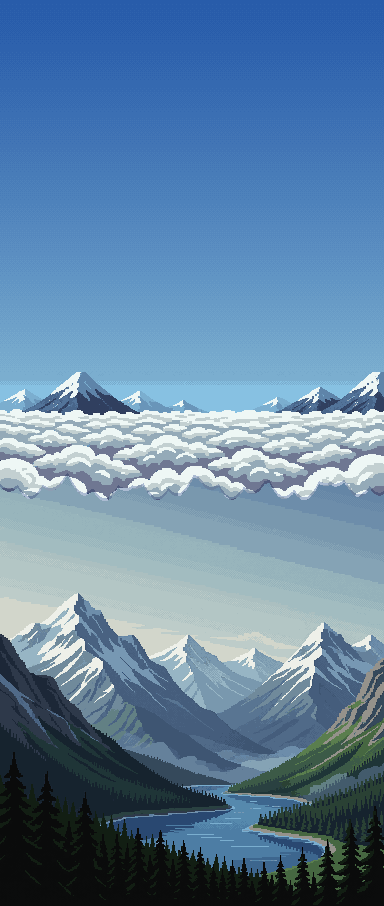
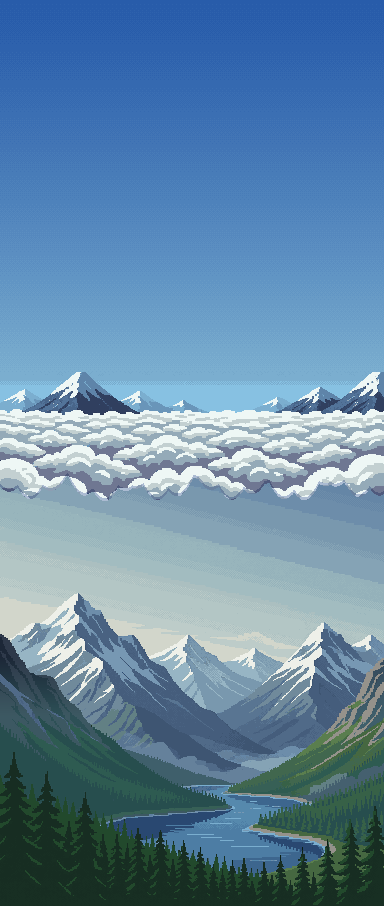
Wall rest, tumbling falls, sitting to wait on a ledge; icy rock and a brighter valley
- Resting on the wall: the climber shuffles to a stance, drops a hand and shakes it out
- Falls flail on a longer tumbling loop
- A climber alone on a camp ledge sits down to wait and stands as the partner arrives
- The top of the mountain has its own iced-over rock painting
- The valley backdrop's forest is lifted out of near-black
- Cache versions raised (code=2, art=11)

Claude-Session: https://claude.ai/code/session_018rpfmEX5HfmNYP77j3hC6K

Changed region(s): [[0.0, 0.7417, 1.0, 1.0]]

diff --git a/js/scene.js b/js/scene.js
@@ -170,7 +170,10 @@ const ART={},CLOUD_N=3,TENT_UP=9;
         if(L(k)>95&&L(k-W*4)<62){const n=2+((x*7+y*3)%3);for(let j=0;j<n;j++){const q=k+j*W*4;if(L(q)<62)break;
           const c=j<n-1?[242,245,247]:[191,210,230];d[q]=c[0];d[q+1]=c[1];d[q+2]=c[2];}}}}
     for(const p of [lo,mid,hi]){let r=0,g=0,b=0;const N=p.w*p.h;for(let k=0;k<N*4;k+=4){r+=p.d[k];g+=p.d[k+1];b+=p.d[k+2];}p.mean=[r/N,g/N,b/N];}
-    ART.zones=[lo,mid,hi];ART.rockLo=lo;FX.chunks.clear();});
+    const mean=p=>{let r=0,g=0,b=0;const N=p.w*p.h;for(let k=0;k<N*4;k+=4){r+=p.d[k];g+=p.d[k+1];b+=p.d[k+2];}p.mean=[r/N,g/N,b/N];};
+    ART.zones=[lo,mid,hi];ART.rockLo=lo;FX.chunks.clear();
+    // (the top of the mountain has its own painting of the same slabs, iced over; the wintry copy stands in until it loads)
+    load(asset("assets/rock-high.png"),im2=>{const ice=pixels(im2);mean(ice);ART.zones=[lo,mid,ice];FX.chunks.clear();});});
   // the walkable surface of a platform image: the first opaque row down its middle
   const surface=p=>{const x=p.w>>1;for(let y=0;y<p.h;y++)if(p.d[(y*p.w+x)*4+3]>40)return y;return 0;};
   // camp ledges: Camp I as drawn; Camp II with its grass and moss turned to snow and its rock cooled to blue-grey
@@ -377,6 +380,10 @@ const TIE=[68,66];          // the front of the belt in the climbing frames (whe
 const CLIMB_STEP=7,CLIMB_X1=93; // (CLIMB_X1: the frames' rightmost pixel, a hand or a toe, which goes into the rock)
 const climbQ=y=>Math.round(y/CLIMB_STEP);
 const REST_N=9,REST_MS=1700; // the resting and dangling clips: nine frames each, the rest played once through
+const REST_STEP=70;  // (the rest starts from the cycle's first frame: the climber shuffles to it, this long a frame)
+const TUMBLE_N=8;    // a long fall: flailing on a loop, after the dangle's frames in the fall clip
+const SIT_N=9,SIT_DOWN=.9,SIT_UP=.55,SIT_AFTER=1.4; // sitting down to wait on a ledge (after the standing clips)
+const restSteps=y=>{const n=CLIP_N.climb,f=((-climbQ(y))%n+n)%n;return f<=n/2?f:n-f;};
 // the pull-up onto a ledge: nine frames on a tall canvas, the first the hanging climb frame, the last standing up
 // on top. `hang` is where the climb clip's frame sits in that canvas and `stand` where the idle clip's does.
 const MANTLE_N=9,MANTLE={lumberjack:{hang:[0,107],stand:[26,18]},woman:{hang:[0,105],stand:[25,22]}};
@@ -398,9 +405,10 @@ function loadClimber(L){const who=CLIMBER_ART[L.name],A=L.art={clips:{},ready:0}
   // the extra clips ride at the end of the clips whose placement they share: both rests after the climb's frames
   // (hand up as in frame 3, then as in frame 7), the dangle after the fall's
   const extra=(dir,n,done)=>{const fr=[];let k=n;for(let i=0;i<n;i++){const im=new Image();im.onload=()=>{if(!--k)done(fr);};im.src=asset(`assets/climbers/${who}/${dir}/${i}.png`);fr.push(im);}};
-  extra("dangle",REST_N,a=>{A.clips.fall.push(...a);A.dangle=1;});
+  extra("dangle",REST_N,a=>extra("tumble",TUMBLE_N,b=>{A.clips.fall.push(...a,...b);A.dangle=1;A.tumble=1;}));
+  extra("rest",REST_N,a=>{A.clips.climb.push(...a);A.rest=1;});
   extra("mantle",MANTLE_N,a=>{A.mantle=a;A.mantleAt=MANTLE[who];});
-  extra("look",STAND_N,a=>extra("drink",STAND_N,b=>extra("land",LAND_N,c=>{A.clips.idle.push(...a,...b,...c);A.stand=1;})));}
+  extra("look",STAND_N,a=>extra("drink",STAND_N,b=>extra("land",LAND_N,c=>extra("sit",SIT_N,d=>{A.clips.idle.push(...a,...b,...c,...d);A.stand=1;A.sit=1;}))));}
 loadClimber(LOOK.me);loadClimber(LOOK.mate);
 // all of the climb's pictures are in (until then the scene draws simple stand-ins; the loading screen waits for this)
 const artReady=()=>!!(ART.valley&&ART.rockLo&&ART.ledge&&ART.tent&&ART.trees[0]&&ART.trees[1]&&ART.ground&&LOOK.me.art.ready&&LOOK.mate.art.ready);
@@ -589,12 +597,18 @@ class Rig{
     if(this.mode==="stand"){if(this.cheer>0){this.cheer-=dt;if(!(this.clip&&this.clip.joy)){this.play([["cheer1",170],["cheer2",170]],0);this.clip.joy=1;}if(this.cheer<=0)this.standLoop();}
       else if(this.clip&&this.clip.joy)this.standLoop();}
     if(!this.mv&&(this.mode==="climb"||this.mode==="stand")&&this.cheer<=0&&FX.time>this.idleAt&&!RM.matches){this.calm();
-      if(this.mode==="climb")this.play(this.L.art&&this.L.art.rest?[["rest",REST_MS],["hang",1e9]]:Math.random()<.5?[["chalk",900],["hang",1e9]]:[["shake1",110],["shake2",110],["shake1",110],["shake2",110],["shake1",110],["shake2",110],["hang",1e9]]);
+      if(this.mode==="climb")this.play(this.L.art&&this.L.art.rest?[["rest",REST_MS+2*restSteps(this.N.y)*REST_STEP],["hang",1e9]]:Math.random()<.5?[["chalk",900],["hang",1e9]]:[["shake1",110],["shake2",110],["shake1",110],["shake2",110],["shake1",110],["shake2",110],["hang",1e9]]);
       // (on their feet with nothing to do, they look up the wall or take a drink; while belaying they just glance up)
+      else if(this.sit>0);
       else if(this.pose==="stand"||this.pose==="stand2"){const o=FX.A&&(this===FX.A.me?FX.A.mate:FX.A.me),busy=!this.L.art||!this.L.art.stand||(o&&(o.mode==="climb"||o.mode==="fall"));
         this.play(busy?[["look",1600],["stand",650],["stand2",650]]:[[Math.random()<.5?"slook":"sdrink",STAND_MS],["stand",650],["stand2",650]],1);}}
     // on the wall they face it; on a ledge they face their partner
     const other=FX.A&&(this===FX.A.me?FX.A.mate:FX.A.me);
+    // up on a ledge with the partner still well down the wall: after a moment they sit down to wait, and get to
+    // their feet again as the partner comes up to the ledge
+    {const want=this.mode==="stand"&&!this.mv&&this.cheer<=0&&!(this.dizzy>0)&&this.L.art&&this.L.art.sit&&!RM.matches&&other&&other!==this&&other.mode==="climb"&&other.N.y>this.N.y+96;
+      this.sitHold=want?(this.sitHold||0)+dt:0;
+      this.sit=this.mode!=="stand"?0:clamp((this.sit||0)+(this.sitHold>SIT_AFTER?dt/SIT_DOWN:-dt/SIT_UP),0,1);}
     // a belayer on the wall leans back out on the rope while the leader climbs past, so the two never overlap
     const lean=other&&this===FX.A.mate&&this.mode==="climb"&&other.mode==="climb"&&Math.abs(other.N.y-this.N.y)<74?-38:0;
     this.passX=(this.passX||0)+(lean-(this.passX||0))*(1-Math.exp(-dt*5));
@@ -611,12 +625,21 @@ class Rig{
   artFrame(t){
     // jolted on the wall (the rope jerked): snapped back off the rock, arms out, for a moment before grabbing on again
     // (while a move off a ledge or a fall waits to start, the body keeps the frame it had, so it never dips first)
-    if(this.mode==="climb"){const n=CLIP_N.climb,q=climbQ(this.N.y);return ["climb",((-q)%n+n)%n];}
+    if(this.mode==="climb"){const n=CLIP_N.climb,q=climbQ(this.N.y),f=((-q)%n+n)%n;
+      // a rest: shuffle to the cycle's first stance, drop a hand and shake it out, reach back up, shuffle back
+      if(this.pose==="rest"&&this.clip&&this.L.art.rest&&!this.mv){const s=f<=n/2?f:n-f,dir=f<=n/2?-1:1,T=this.clip.t,pre=s*REST_STEP;
+        if(T<pre)return ["climb",((f+dir*(Math.floor(T/REST_STEP)+1))%n+n)%n];
+        if(T<pre+REST_MS)return ["climb",n+Math.min(REST_N-1,Math.floor((T-pre)/REST_MS*REST_N))];
+        return ["climb",((-dir*Math.min(s,Math.floor((T-pre-REST_MS)/REST_STEP)+1))%n+n)%n];}
+      return ["climb",f];}
     // a fall: tipping back off the wall (two frames), then flailing on a loop; once the rope has caught them, they
     // hang back in the harness
     if(this.mode==="fall"){const F=this.fall,ft=FX.time-(F?F.t0:0);
       if(F&&F.caught)return this.L.art.dangle?["fall",CLIP_N.fall+Math.floor((FX.time-(F.tc||0))*7)%REST_N]:HANG_ART;
-      return ["fall",ft<.1?1:ft<.2?2:3+Math.floor((ft-.2)*11)%3];}
+      return ["fall",ft<.1?1:ft<.2?2:this.L.art.tumble?CLIP_N.fall+REST_N+Math.floor((ft-.2)*10)%TUMBLE_N:3+Math.floor((ft-.2)*11)%3];}
+    // sitting down to wait, seated (shifting a little now and then), or getting back up
+    if(this.mode==="stand"&&this.sit>0&&this.L.art.sit){const b=CLIP_N.idle+2*STAND_N+LAND_N;
+      return ["idle",b+(this.sit>=1?(Math.floor(t*.9+this.ph)%5===0?SIT_N-2:SIT_N-1):Math.floor(this.sit*(SIT_N-1)))];}
     // on the ground or a ledge with the partner climbing above: braced, paying out the rope
     if(this.mode==="stand"&&(this.pose==="stand"||this.pose==="stand2"||this.pose==="look")&&this.cheer<=0){const o=FX.A&&(this===FX.A.me?FX.A.mate:FX.A.me);
       if(o&&(o.mode==="climb"||o.mode==="fall")&&o.N.y<this.N.y-30)return ["belay",Math.floor(t*5+this.ph)%CLIP_N.belay];}
@@ -663,7 +686,7 @@ class Rig{
       else if(k==="climb")this.blit(g,img,x+HANG[0]+9-CLIMB_X1,y+HANG[1]-1-b.y0,"wall",ox,oy);
       else this.blit(g,img,x-(flip?W-1-((b.x0+b.x1)>>1):(b.x0+b.x1)>>1),y+LEG-b.y1,"feet:"+k+(flip?"<":">"),ox,oy);
       // (the harness: on the wall at the belt's front in the climbing frames; standing, just ahead of the hips)
-      this.tieW=k==="climb"?{x:this.at[0]-ox+TIE[0],y:this.at[1]-oy+TIE[1]}:{x:x-ox+4*this.dir,y:y-oy+3};}
+      this.tieW=k==="climb"?{x:this.at[0]-ox+TIE[0],y:this.at[1]-oy+TIE[1]}:{x:x-ox+4*this.dir,y:y-oy+3+R0((this.sit||0)*26)};}
     else{this.tieW=null;
       const P0=POSES[this.pose]||POSES.stand,blink=!P0.eff&&!P0.oh&&((t+this.ph*1.7)%3.9)<.13,flap=Math.floor(t*4+this.ph)%2,gear=this.gear|0;
       const key=`${this.pose}|${gear}|${blink?1:0}|${flap}|${this.dir}`;let img=this.cache.get(key);

diff --git a/index.html b/index.html
@@ -23,10 +23,10 @@
 /* GitHub Pages lets browsers keep every file for ten minutes. The game's styles and scripts are fetched at one code
    version, so a browser keeps them between visits and never mixes files from two updates: raise the number with every
    change to css/ or js/, and everyone gets the new files the next time this page loads. */
-window.V="code=1";
+window.V="code=2";
 /* The art (everything under assets/) changes rarely and is most of the download, so it keeps one version, which
    browsers may hold on to: raise the number whenever a picture is changed or added. */
-window.AV="art=10";
+window.AV="art=11";
 document.write('<link rel="stylesheet" href="css/style.css?'+V+'">');
 </script>
 <style>
@@ -41,7 +41,7 @@ document.write('<link rel="stylesheet" href="css/style.css?'+V+'">');
 </style>
 </head>
 <body>
-<div id="boot" role="status" aria-label="Loading Pinnacle"><img src="assets/emblem.png?art=10" alt=""><i></i></div>
+<div id="boot" role="status" aria-label="Loading Pinnacle"><img src="assets/emblem.png?art=11" alt=""><i></i></div>
 <div class="scene" id="scene">
   <canvas id="topo" role="img" aria-label="A rope team climbing a granite cliff from base camp to the summit"></canvas>
   <div class="fx" id="fx" aria-hidden="true"></div>
